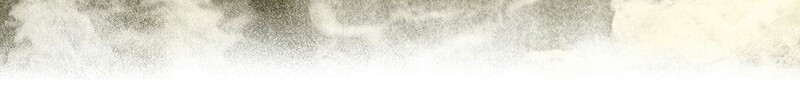
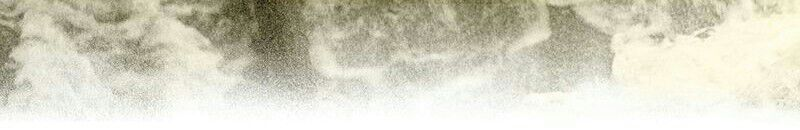
修改主页

diff --git a/app/templates/base.html b/app/templates/base.html
@@ -16,12 +16,11 @@
 
   {% block css_file %}<!-- link css file -->{% endblock %}
 </head>
-<body onclick="fade()">
+<body onclick="fade()" class="bgimage">
   {% block style %}
   <!-- css style in html file -->
   {% endblock %}
-  <div class="bgimage">
-  	<img src="/static/image/bgimage.png">
+  <div >
   </div>
 			<div class="header">
 

diff --git a/app/static/css/First.css b/app/static/css/First.css
@@ -1,9 +1,10 @@
 .bgimage{
-
-	height: 185px;
+	background: transparent url(../image/bgimage.png) no-repeat;
+	background-size: 100%;
+	height: 20%;
 	width: 100%;
 	z-index: -999;
-	margin-bottom: -175px;
+
 
 }
 .bgimage img{
